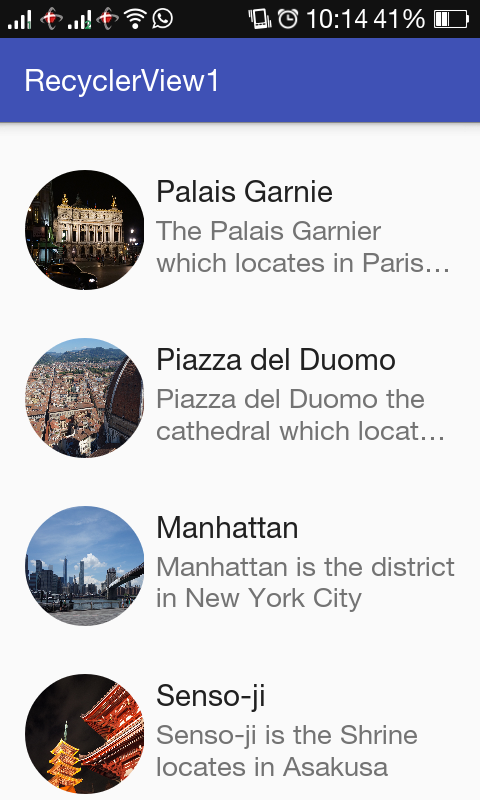
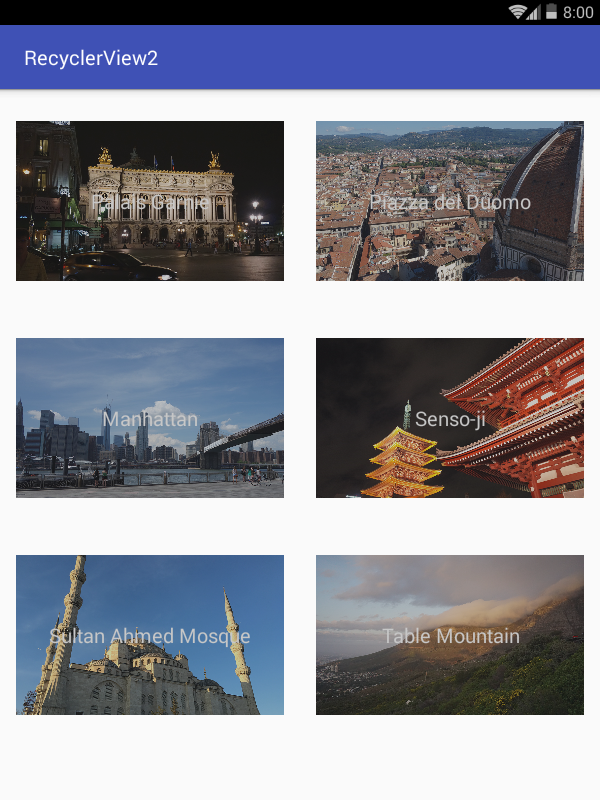
RecyclerView Grid

diff --git a/app/src/main/java/id/sch/smktelkom_mlg/learn/recyclerview2/MainActivity.java b/app/src/main/java/id/sch/smktelkom_mlg/learn/recyclerview2/MainActivity.java
@@ -8,6 +8,7 @@ import android.support.v4.graphics.drawable.RoundedBitmapDrawable;
 import android.support.v4.graphics.drawable.RoundedBitmapDrawableFactory;
 import android.support.v7.app.AppCompatActivity;
 import android.os.Bundle;
+import android.support.v7.widget.GridLayoutManager;
 import android.support.v7.widget.LinearLayoutManager;
 import android.support.v7.widget.RecyclerView;
 
@@ -27,7 +28,7 @@ public class MainActivity extends AppCompatActivity {
         setContentView(R.layout.activity_main);
 
         RecyclerView recyclerView = (RecyclerView) findViewById(R.id.recyclerView);
-        LinearLayoutManager layoutManager = new LinearLayoutManager(this);
+        GridLayoutManager layoutManager = new GridLayoutManager(this, 2);
         recyclerView.setLayoutManager(layoutManager);
         mAdapter = new HotelAdapter(mList);
         recyclerView.setAdapter(mAdapter);
@@ -46,11 +47,7 @@ public class MainActivity extends AppCompatActivity {
 
         for (int i = 0; i < arFoto.length; i++)
         {
-            BitmapDrawable bd = (BitmapDrawable) a.getDrawable(i);
-            RoundedBitmapDrawable rbd =
-                    RoundedBitmapDrawableFactory.create(getResources(),bd.getBitmap());
-            rbd.setCircular(true);
-            arFoto[i] = rbd;
+            arFoto[i] = a.getDrawable(i);
         }
 
         a.recycle();

diff --git a/app/src/main/java/id/sch/smktelkom_mlg/learn/recyclerview2/adapter/HotelAdapter.java b/app/src/main/java/id/sch/smktelkom_mlg/learn/recyclerview2/adapter/HotelAdapter.java
@@ -37,7 +37,6 @@ public class HotelAdapter extends RecyclerView.Adapter<HotelAdapter.ViewHolder> 
 
         Hotel hotel = hotelList.get(position);
         holder.tvJudul.setText(hotel.judul);
-        holder.tvDeskripsi.setText(hotel.deskripsi);
         holder.ivFoto.setImageDrawable(hotel.foto);
     }
 
@@ -53,14 +52,13 @@ public class HotelAdapter extends RecyclerView.Adapter<HotelAdapter.ViewHolder> 
     {
         ImageView ivFoto;
         TextView tvJudul;
-        TextView tvDeskripsi;
 
         public ViewHolder(View itemView)
         {
             super(itemView);
             ivFoto = (ImageView) itemView.findViewById(R.id.imageView);
             tvJudul = (TextView) itemView.findViewById(R.id.textViewJudul);
-            tvDeskripsi = (TextView) itemView.findViewById(R.id.textViewDeskripsi);
+
         }
     }
 }
